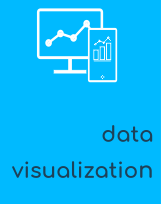
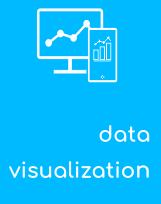
style: :art: Home page design revision
Changes in the hero image illustration. Card reveal illustrations edited for testing colors. Adjusting paddign and setting deviders for  different sections. Working on the form text area adjustments. Styling the buttonn and social icons.  Editing and testing different approaches for the toolset section.

#25

Changed region(s): [[0.0621, 0.7941, 0.9627, 0.8824], [0.5901, 0.5882, 0.9627, 0.7059]]

diff --git a/layouts/index.html b/layouts/index.html
@@ -96,7 +96,7 @@
     {{ with .Site.Data.homepage.banner }}
       <div class="container">
       <h1>{{ .title }}</h1>
-      <a href="/contact"><button class="btn waves-effect waves-light" type="submit" name="action" id="call2">Contact us</button></a>  
+      <a href="/contact"><button class="btn waves-effect waves-light" type="submit" name="action" id="call2">Contact us<i class="material-icons">send</i></button></a>
     </div>
     {{end}}
     
@@ -107,8 +107,8 @@
 {{"<!-- /banner -->"| safeHTML}}
 
 {{"<!-- features -->"| safeHTML}}
-<section class="mb-1 mr-2">
-  <div class="container feat">
+<section class="mb-1 mr-1 feat">
+  <div class="container">
     <div class="row">
       <div class="col s12"><!--------first row title-->
         {{ with .Site.Data.services.service }}
@@ -133,7 +133,7 @@
 
 
 {{"<!-- goals -->"| safeHTML}}
-<section class="mr-2">
+<section class="mr-1">
   <div class="container">
     <div class="row">
       <!--first card------------------------>
@@ -232,25 +232,32 @@
     </div>
   </div>
 </section> -->
-<!-- <section class="mr-2 bg-gray">
+<section class="mr-2 light-grey" id="tool-bg">
   <div class="container">
     <div class="row">
       <h2>Our resources</h2>
-    </div>  
-    <div class="row">
+    </div>
+    <div class="row">  
       {{ range .Site.Data.homepage.toolset }}
-      <div class="col s2 m2 l2" id="test">
-        <div class="ribbon">
-          <img src="{{ .toolsetLogo | absURL }}" alt="{{ .tool }}" title="{{ .toolName }}">
-        </div>
+      <div class="col s2 m2 l2">
+        <ul class="ribbon">
+            <li><img src="{{ .toolsetLogo | absURL }}" alt="{{ .tool }}" title="{{ .toolName }}"></li>
+        </ul>
       </div>
       {{end}}
     </div>
-      
-  </div>
-</div> -->
+    <div class="row">  
+      {{ range .Site.Data.homepage.toolset2 }}
+      <div class="col s2 m2 l2">
+        <ul class="ribbon">
+            <li><img src="{{ .toolsetLogo | absURL }}" alt="{{ .tool }}" title="{{ .toolName }}"></li>
+        </ul>
+      </div>
+      {{end}}
+    </div>
+</div>
  <!-------------------------------------------------------------------------------------> 
-<!-- </section> -->
+</section>
 {{"<!-- /toolset -->"| safeHTML}}
 
 {{"<!-- team -->" | safeHTML}}

diff --git a/layouts/partials/contact-access.html b/layouts/partials/contact-access.html
@@ -1,26 +1,26 @@
 {{"<!-- contact -->" | safeHTML }}
 
-<section class="mr-3 bg-gray"><!--?------contact us section-------------------------------------->
-    <div class="container">
-      <div class="row adj">
-        <div class="col s12 m6">
-          {{ with .Site.Data.contact.contactForm }}
-          <h2>{{ .title }}</h2>
-          {{ end }}
-        </div>
-        <div class="col s12 m6">
-          <a href="/contact" class="visit" ><button class="btn waves-effect waves-light btn-lg" type="submit" name="action" id="contact-bt">Get in touch
-            <i class="material-icons">send</i></button></a>
-          <div class="container-social">
-            <ul class="list-inline social-icons">
-              {{ range .Site.Params.footer.socialIcon }}
-              <li class="list-inline-item "><a href="{{ .URL }}"><i class="fa {{ .icon }}"></i></a></li>
-              {{ end }}
-            </ul>
-          </div>
-        </div>
-      </div>   
-    </div>
-  </section><!--?------/contact us section------------------------------------------------------->  
+<section class=" light-grey"><!--?------contact us section-------------------------------------->
+  <div class="container">
+    <div class="row adj">
+      <div class="col s12 m6">
+        {{ with .Site.Data.contact.contactForm }}
+        <h2>{{ .title }}</h2>
+        {{ end }}
+      </div>
+      <div class="col s12 m6">
+        <a href="/contact" class="visit" ><button class="btn waves-effect waves-light btn-lg" type="submit" name="action" id="call1">Contact us
+          <i class="material-icons">send</i></button></a>
+        <div class="container-social">
+          <ul class="list-inline social-icons">
+            {{ range .Site.Params.footer.socialIcon }}
+            <li class="list-inline-item "><a href="{{ .URL }}"><i class="fa {{ .icon }}"></i></a></li>
+            {{ end }}
+          </ul>
+        </div>  
+      </div>
+    </div>   
+  </div>
+</section><!--?------/contact us section------------------------------------------------------->  
 
   {{"<!-- contact -->" | safeHTML }}

diff --git a/themes/agico-hugo/assets/scss/_common.scss b/themes/agico-hugo/assets/scss/_common.scss
@@ -58,7 +58,6 @@ a.text-dark
 
 .border-color {
   margin-top: 0px !important;
-  //changing height of the footer
   // padding-bottom: 100px;
 }
 
@@ -163,7 +162,7 @@ margin-top: 110px;
 }
 //gap to use between rows
 .mr-1{
-  padding-top: 1.5em;
+  padding-top: 2em;
 }
 .mr-2{
   padding-bottom: 1.5em;
@@ -180,6 +179,9 @@ margin-top: 110px;
 }
 .orange-divider{
   border-top: 3px dotted $secondary-color2;
+}
+.orange-divider2{
+  border-bottom: 3px dotted $secondary-color2;
 }
 
 
@@ -406,14 +408,10 @@ margin-top: 110px;
 .visit{
   color: white;
 }
-
-.adj{
-  display: flex;
-  align-items: center;
+#contact-section{
+  border: 3px dashed $secondary-color2;
+  
 }
-  
-  
-
 
 //contact us page
 #belg{
@@ -432,9 +430,9 @@ margin-top: 110px;
 //github icon 
 .text-reset {
   text-decoration: none;
-  color: $secondary-color;
+  color: $secondary-color2;
   &:hover{
-    color: $secondary-color2;
+    color: $primary-color;
   }
 }
 
@@ -449,28 +447,29 @@ margin-top: 110px;
 }
 
 .ribbon{
-  
+  display: inline-block;
   display: flex;
   justify-content: center;
-  margin-bottom: 0px;
+  margin: 20px 0px 20px 0px ;
+  // @media only screen and (max-width: 1680px) {
+  //   img{
+  //    object-fit: cover;
+  //    height: 100%;
+  //    width: 80%;
+  //   }
+  // }
 }
-
-//tools section ribbon
-.bg-gray{
-  background-color:$bg-secondary;
-  // border: 3px dashed $secondary-color2;
  
+#tool-bg{
+ padding-top: 10px;
+ padding-bottom: 10px;
   h2{
-    margin-top: 10px !important;
+    margin-top: 0px !important;
   }
+ 
 }
 
-#test{
-  img{
-  display: flex;
-  justify-content: center;
-  align-items: center;
-  margin-bottom: 10px;
-  margin-top: 10px; 
-  }
+#textarea1{
+  // height: 8rem !important;
+  overflow-y: scroll;
 }

diff --git a/layouts/partials/services.html b/layouts/partials/services.html
@@ -84,7 +84,7 @@
     </div><!-------------/first row title------------> 
    <!--?--------------services section------------------------------>
     {{ with .Site.Data.services.serviceItem1 }}
-    <div class="row esp"><!-------------first row---------------------------->
+    <div class="row esp mr-1 mr-2 orange-divider2"><!-------------first row---------------------------->
       <div class="col s12 m12 l6">
         <img src="{{ .url | absURL }}" alt="{{.title}}">
       </div>
@@ -95,7 +95,7 @@
     </div><!-------------/first row---------------------------->
     {{end}}
     {{ with .Site.Data.services.serviceItem2 }}
-    <div class="row"><!-------------second row---------------------------->
+    <div class="row mr-1 mr-2 orange-divider2"><!-------------second row---------------------------->
       <div class="col s12 m12 l6">
         <h2>{{ .title }}</h2>
         <p>{{ .content | markdownify }}</p>
@@ -106,7 +106,7 @@
     </div><!------------------------/second row---------------------------->
     {{end}}
     {{ with .Site.Data.services.serviceItem3 }}
-    <div class="row esp mr-2"><!-------------third row----------------------------->
+    <div class="row esp mr-2 mr-1"><!-------------third row----------------------------->
       <div class="col s12 m12 l6">
         <img src="{{ .url | absURL }}" alt="{{.title}}">
       </div>

diff --git a/layouts/contact/list.html b/layouts/contact/list.html
@@ -111,10 +111,10 @@
         </div>
         <div class="input-field">
           <i class="material-icons prefix">short_text</i>
-          <textarea id="textarea1" class="materialize-textarea" placeholder="" data-length="1000" maxlength="1000"></textarea>
+          <textarea id="textarea1" class="materialize-textarea" placeholder="" data-length="1000" maxlength="1000" rows="5"></textarea>
           <label class="active" for="textarea1">Message</label>
         </div>
-        <button class="btn waves-effect waves-light btn-lg" type="submit" name="action">Send 
+        <button class="btn waves-effect waves-light" type="submit" name="action">Send 
         <i class="material-icons">send</i>
         </button>
         <!----------------captcha------------------------------------------------->

diff --git a/layouts/partials/footer.html b/layouts/partials/footer.html
@@ -4,7 +4,7 @@
     <div class="container">
       <div class="row">
         
-        <div class="footer-blocks col s12 m6 l4 push-l2">
+        <div class="footer-blocks col s12 m6 l6">
           <h4>{{ .Site.Params.footer.service.title }}</h4>
           {{ range .Site.Menus.footer }}
           <ul class="list-unstyled">
@@ -12,7 +12,7 @@
           {{ end }}
           </ul>
         </div>
-        <div class="footer-blocks col s12 m6 l4 push-l3">
+        <div class="footer-blocks col s12 m6 l6">
           <h4>{{ .Site.Params.footer.contact.title }}</h4>
           <ul class=" list-hover-underline">
             <li><i class="material-icons prefix">email</i><a href="mailto:{{.Site.Params.footer.contact.email}}" class="text-light">{{.Site.Params.footer.contact.email}}</a></li>

diff --git a/themes/agico-hugo/static/plugins/wittylytics/script.js b/themes/agico-hugo/static/plugins/wittylytics/script.js
@@ -17,11 +17,24 @@ document.addEventListener('DOMContentLoaded', function() {
 $(document).ready(function() {
   M.updateTextFields();
 });
-      
+
 $(document).ready(function() {
   $('input#name,input#email,input#subject,textarea#textarea1').characterCounter();
-}); 
+ }); 
 
-
-
-
+/* function changedValue() {
+  let text = document.getElementById("textarea1");
+  let textValue = text.value;
+  let row = text.getAttribute('rows');
+  let lines = textValue.split(/\r|\r\n|\n/);
+  let count = lines.length;
+  console.log(lines)
+  
+  if (count >= row) {
+      text.style.overflowY = "scroll";
+  }
+  else if (count < row) {
+      text.style.overflowY = "hidden";
+  }
+}
+ */

diff --git a/themes/agico-hugo/assets/scss/_buttons.scss b/themes/agico-hugo/assets/scss/_buttons.scss
@@ -50,21 +50,18 @@
   }
   
 }
-#contact-bt{
-  padding: 18px 18px !important;
-}
-
-// call to action button banner area
-#call{
-  margin-left: 0px !important; 
-}
 
 //button without margin-top
 .btn-lg{
   /*padding: 20px 30px;*/
-  margin-top: 50px;
+  margin-top: 60px;
 
   
+}
+
+//call to action button banner area
+#call{
+  margin: 0 0 !important;
 }
 
 //arrow link team members section homepage

diff --git a/themes/agico-hugo/assets/scss/templates/_team.scss b/themes/agico-hugo/assets/scss/templates/_team.scss
@@ -22,10 +22,10 @@
     text-align: center;
     // font: normal normal normal 20px/1 FontAwesome !important;
     i{
-      color: $secondary-color;
+      color: $secondary-color2;
       font-size: 32px;
       &:hover{
-        color: $secondary-color2;
+        color: $primary-color;
       }
     }
     

diff --git a/themes/agico-hugo/assets/scss/templates/_banner.scss b/themes/agico-hugo/assets/scss/templates/_banner.scss
@@ -73,7 +73,7 @@
 	.imge2{
 		position: absolute;
 		bottom: 70px;
-		right: 20px;
+		right: 12px;
 		z-index: 2;
 		display: flex;
 		justify-content: center;
@@ -81,7 +81,7 @@
 	.imge3{
 	position: absolute;
 	bottom: 40px;
-	left: 0px;
+	left: 5px;
 	}
 }
 	

diff --git a/themes/agico-hugo/assets/scss/templates/_card.scss b/themes/agico-hugo/assets/scss/templates/_card.scss
@@ -60,9 +60,9 @@
 
     i{
       padding-right: 0px;
-      color: $secondary-color;
+      color: $secondary-color2;
       &:hover{
-        color: $secondary-color2;
+        color: $primary-color;
       }
     }
   }

diff --git a/themes/agico-hugo/assets/scss/_material.scss b/themes/agico-hugo/assets/scss/_material.scss
@@ -55,3 +55,7 @@ textarea.materialize-textarea:focus:not([readonly])+label {
 .input-field > label{
   font-size: 1.2em !important;
 }
+
+textarea {
+    height: 8rem !important;
+}
